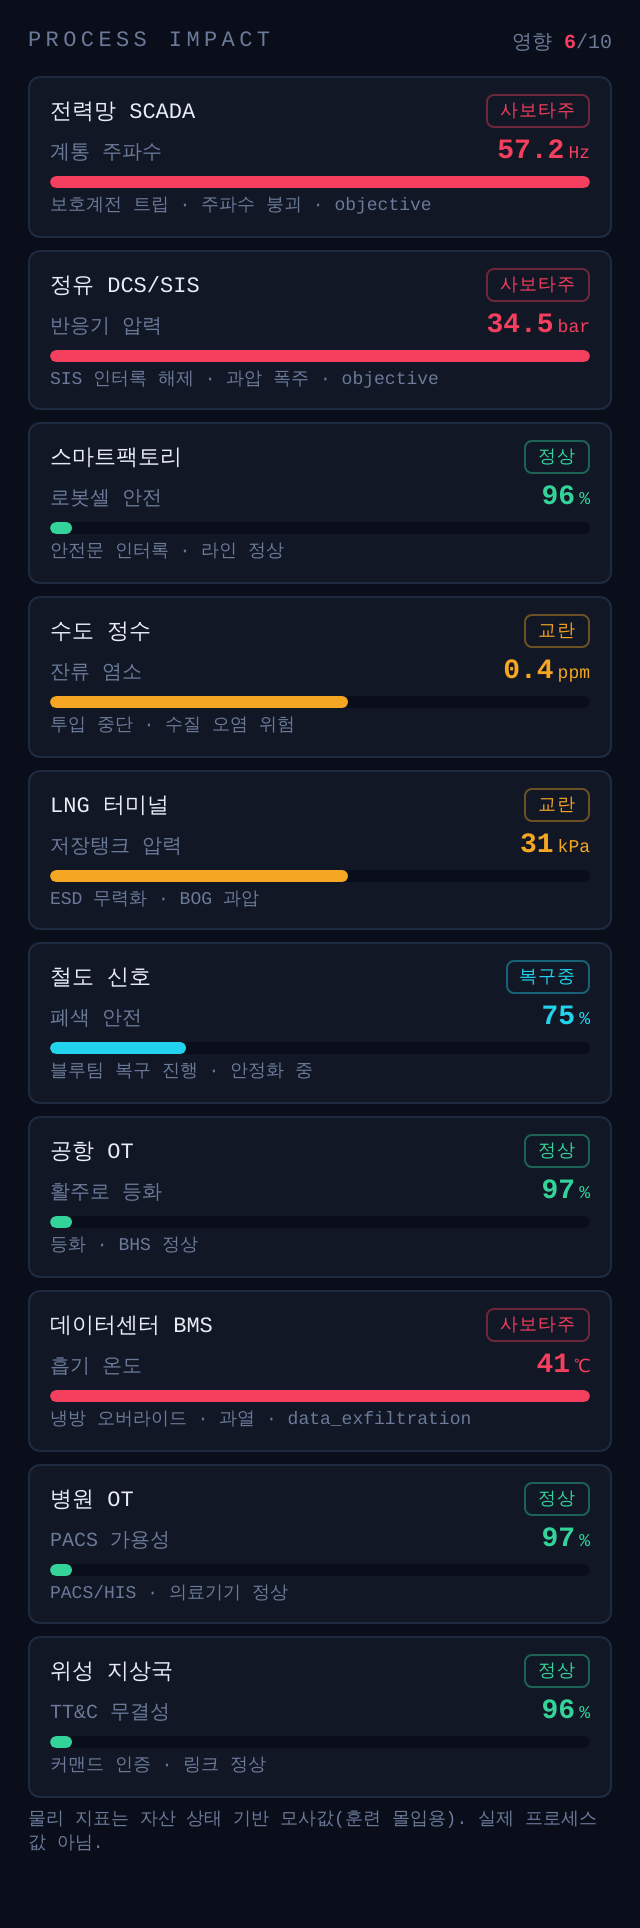
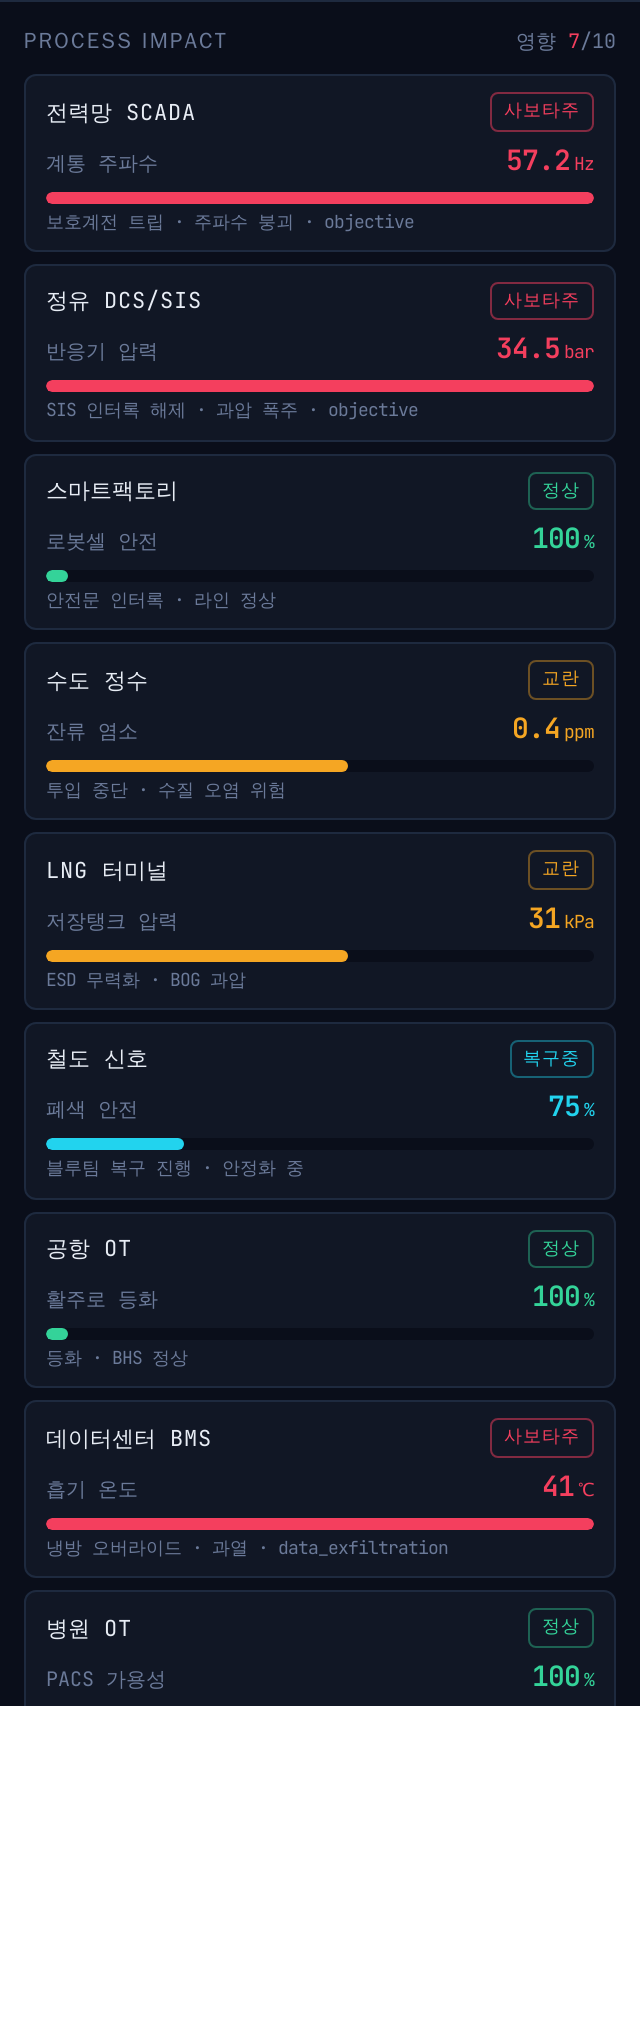
test(livefire): Process Impact E2E 실데이터 검증 + 라이브 스크린샷 교체
- ProcessImpact 루트에 data-testid="process-impact" 추가(스크린샷/향후 테스트 앵커).
- 실검증: event_collector 기동 → OT 6섹터 사보타주/복구 이벤트 주입 → 빌드된 대시보드 서빙 →
  playwright(docker, --network host)로 실제 React 컴포넌트 렌더 캡처. 사보타주 배지 3·복구중 1이
  실이벤트에서 파생됨을 assert(주입 phase objective·data_exfiltration까지 전파 확인).
- README의 Process Impact 스크린샷을 합성 프리뷰 → 실백엔드 이벤트 렌더 캡처로 교체(provenance↑).

Claude-Session: https://claude.ai/code/session_01FH9eFMbH4EDzTz44Pcm24Z

Changed region(s): [[0.0, 0.0, 1.0, 1.0], [0.3438, 0.529, 0.4688, 0.5913]]

diff --git a/dashboards/livefire/src/components/ProcessImpact/ProcessImpact.tsx b/dashboards/livefire/src/components/ProcessImpact/ProcessImpact.tsx
@@ -129,7 +129,7 @@ export function ProcessImpact() {
   const impacted = SECTORS.filter((s) => severityOf(assetStates[s.asset]) !== "nominal").length;
 
   return (
-    <div className="p-3 flex flex-col gap-2">
+    <div className="p-3 flex flex-col gap-2" data-testid="process-impact">
       <div className="flex items-center justify-between">
         <span className="text-[11px] uppercase tracking-widest text-[#6B7A99]">Process Impact</span>
         <span className="font-mono text-[10px] text-[#6B7A99]">

diff --git a/README.md b/README.md
@@ -109,8 +109,9 @@ SIEM 8040 · Scenario 8045 · Instructor 8050 · NOC 8070 · EDR 8080 · AAR 809
 
 <p align="center">
   <img src="docs/images/livefire-process-impact.png" alt="Process Impact 패널" width="360"/>
-  <br/><em>Process Impact — 전력망 트립 · 정유 SIS 해제 · 데이터센터 냉방 오버라이드가 사보타주로,
-  철도는 블루팀 복구중으로 표시된 예시</em>
+  <br/><em>Process Impact(실제 event_collector 이벤트로 렌더) — 전력망 트립 · 정유 SIS 해제 ·
+  데이터센터 냉방 오버라이드가 사보타주로, 수도·LNG는 교란, 철도는 블루팀 복구중으로 표시.
+  각 이벤트의 phase(objective·data_exfiltration)까지 반영</em>
 </p>
 
 ### 🖥 EDR 콘솔 — 침해 대응
